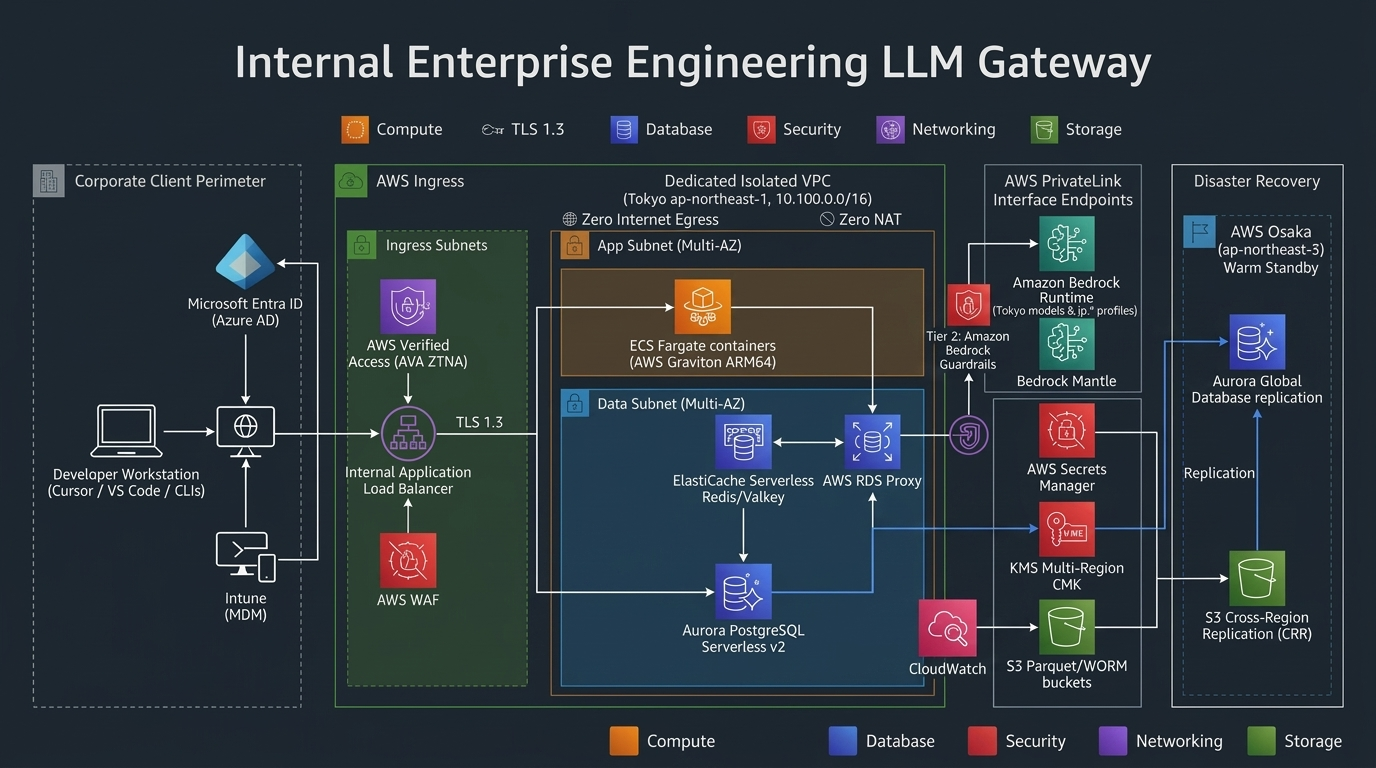
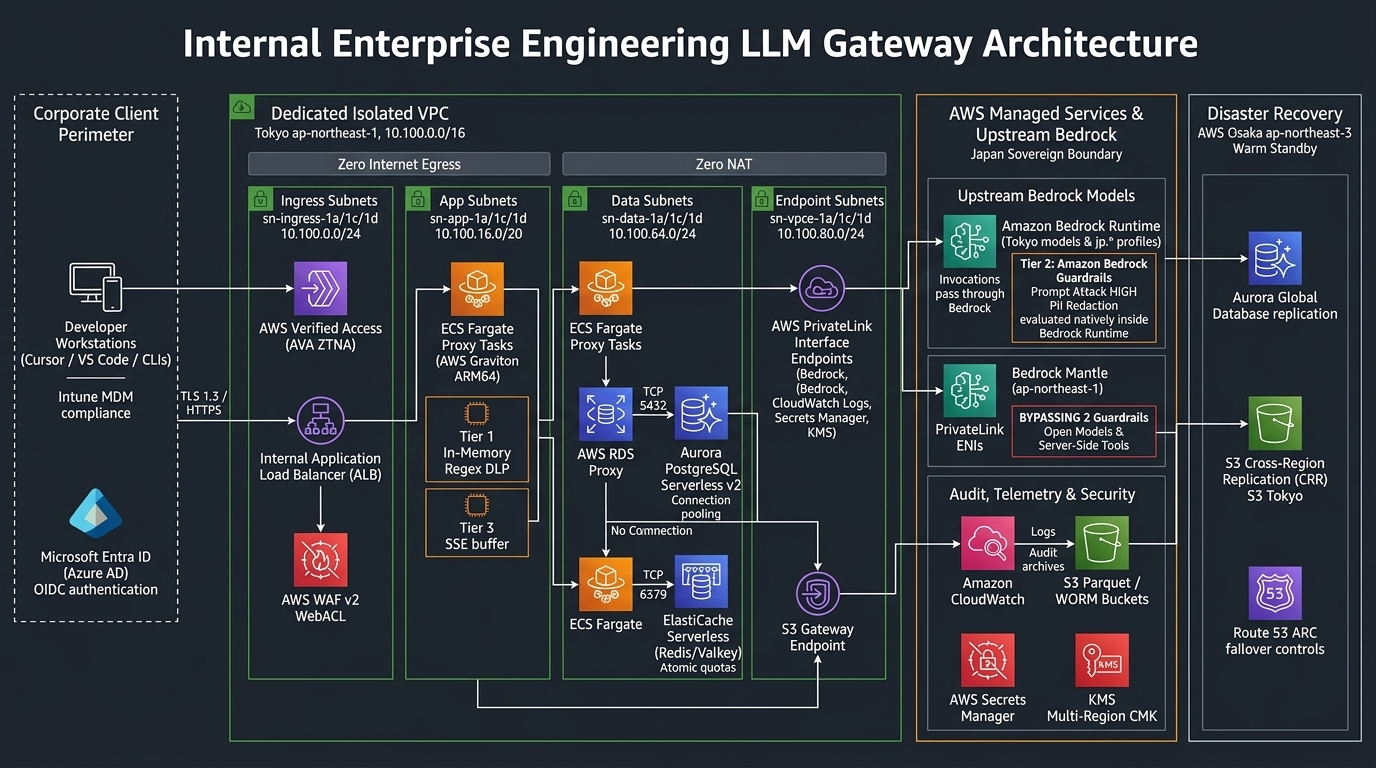
docs(arch): clarify Bedrock Mantle guardrail exclusion and fix infra diagram network paths
- Clarify that Bedrock Mantle does not natively support Bedrock Guardrails; calls bypass Tier 2 Guardrails and rely on Tier 1 Edge DLP and Tier 3 SSE buffer
- Update REQUIREMENTS.md, REQUIREMENTS_JA.md, INFRASTRUCTURE_SPEC.md, and MODEL_AVAILABILITY_MATRIX.md with explicit Mantle guardrails exclusion rules
- Regenerate assets/infra_overview_diagram.jpg and update assets/infra_overview_diagram.md:
  * Route Bedrock Mantle directly bypassing Bedrock Guardrails
  * Place Bedrock Guardrails evaluation natively inside Bedrock Runtime
  * Properly encapsulate all subnets (including ingress and sn-vpce) inside VPC
  * Connect CloudWatch Logs and Metrics via PrivateLink Interface Endpoints
  * Connect S3 Parquet/WORM buckets via S3 Gateway Endpoint
  * Route ECS Fargate database traffic strictly via RDS Proxy to Aurora Serverless v2

diff --git a/assets/infra_overview_diagram.md b/assets/infra_overview_diagram.md
@@ -47,12 +47,14 @@ The platform is deployed in a dedicated, greenfield isolated VPC (`10.100.0.0/16
 * **Aurora PostgreSQL Serverless v2:** Multi-AZ authoritative datastore scaling elastically (2.0 to 32.0 ACUs) for users, virtual key hashes, and FinOps ledger transactions.
 
 ### Upstream Model & Management Tier (`Endpoint Subnets` / PrivateLink)
-* **AWS PrivateLink Interface Endpoints:** Dedicated private ENIs for zero-egress communication with AWS services.
+* **AWS PrivateLink Interface Endpoints (`sn-vpce-1a/1c/1d`):** Dedicated private ENIs deployed across the endpoint subnets for zero-egress communication with AWS services.
 * **Amazon Bedrock Runtime & Mantle:** Upstream Foundation Models deployed across Japan Sovereign Boundaries (`jp.*` cross-region profiles & Tokyo in-region models).
-* **Tier 2: Amazon Bedrock Guardrails:** Natively integrated into **Amazon Bedrock Runtime** calls via `guardrailIdentifier` and `guardrailVersion`. Evaluates Prompt Attack defense at **HIGH** filter strength, denied topic policies, and Japan PII redaction (My Number / credit cards). There is **no separate VPC endpoint** for Guardrails; all invocations route through the `com.amazonaws.ap-northeast-1.bedrock-runtime` PrivateLink endpoint.
+* **Tier 2: Amazon Bedrock Guardrails:** Natively integrated into **Amazon Bedrock Runtime** calls via `guardrailIdentifier` and `guardrailVersion`. Evaluates Prompt Attack defense at **HIGH** filter strength, denied topic policies, and Japan PII redaction (My Number / credit cards). There is **no separate VPC endpoint** for Guardrails; all invocations route through the `com.amazonaws.ap-northeast-1.bedrock-runtime` PrivateLink endpoint and Guardrails is evaluated inside the Bedrock service plane.
+* **Bedrock Mantle Guardrail Exclusion:** Bedrock Mantle (`bedrock-mantle.ap-northeast-1.api.aws`) does **not** natively support Bedrock Guardrails. Mantle traffic connects directly via the Bedrock interface endpoint and completely bypasses Tier 2 Guardrails, relying exclusively on Tier 1 Edge DLP and Tier 3 SSE filtering.
 * **FinOps Optimization:** Interactive developer chat and coding prompts enforce Tier 2 Guardrails. High-throughput codebase embeddings (`amazon.titan-embed-text-v2`) bypass Tier 2 Guardrails to eliminate cost amplification ($0.75/1k text units).
 * **Secrets & Encryption:** AWS Secrets Manager for model credentials; KMS Multi-Region Customer Managed Keys (`mrk-llm-gw`) for envelope encryption.
-* **Audit & Storage:** CloudWatch Logs (zero payload, SHA-256 prompt hashes only) and S3 Parquet/WORM buckets with Object Lock.
+* **Audit & Storage:** CloudWatch Logs (zero payload, SHA-256 prompt hashes only) via `com.amazonaws.ap-northeast-1.logs` Interface Endpoints in `sn-vpce`, and S3 Parquet/WORM buckets with Object Lock via `com.amazonaws.ap-northeast-1.s3` Gateway Endpoint attached to `rt-app`.
+* **Database Connection Integrity:** ECS Fargate tasks connect exclusively to **AWS RDS Proxy** (`sn-data`) for PostgreSQL connection multiplexing, never directly to Aurora. ElastiCache Serverless is accessed independently via TCP 6379.
 
 ### Disaster Recovery Tier (AWS Osaka `ap-northeast-3`)
 * **Warm Standby:** Asynchronous cross-region storage replication via **Aurora Global Database** (RPO < 1 min) and S3 Cross-Region Replication (CRR).

diff --git a/REQUIREMENTS_JA.md b/REQUIREMENTS_JA.md
@@ -330,6 +330,7 @@ s3://s3-llm-gateway-finops-ap-northeast-1/transactions/year=YYYY/month=MM/day=DD
 
 * **`[FR-DLP-05]` Amazon Bedrock Guardrails 統合:**
   * Amazon Bedrock Runtime を対象とする開発者の対話型プロンプトはすべて、アップストリーム呼び出し時にアクティブな Guardrail 識別子とバージョン（`guardrailIdentifier` および `guardrailVersion`）を渡さなければならない（MUST）。
+  * **Bedrock Mantle の除外:** Bedrock Mantle（`bedrock-mantle.<region>.api.aws`）は Amazon Bedrock Guardrails をネイティブサポートしていません。`bedrock-mantle` へルーティングされるリクエストは第2層 Guardrails をバイパスし、第1層エッジDLPおよび第3層SSEフィルタリングに依存します。
   * **プロンプト攻撃防御:** Guardrail はプロンプト攻撃に対して **HIGH** 強度のフィルタリングを強制し、社内システム指示の上書きや敵対的ジェイルブレイクを阻止しなければならない（MUST）。
   * **禁止トピック:** マルウェア、リモートエクスプロイト、認証情報収奪ツールの生成要求を拒絶するトピックポリシーを強制しなければならない（MUST）。
   * **介入レスポンス:** Bedrock Guardrail が呼び出しをブロックした場合、ゲートウェイは内部セキュリティルールの詳細を露見させることなく、RFC 7807 形式のエラー（`HTTP 400 Bad Request`）を返却しなければならない（MUST）：

diff --git a/INFRASTRUCTURE_SPEC.md b/INFRASTRUCTURE_SPEC.md
@@ -742,7 +742,8 @@ To resolve the trade-offs between speed, cost, and safety (where pure regex lack
    * **SSRF Parameter Stripping:** Removes client-supplied routing parameters (`api_base`, `base_url`, `api_key`, `custom_llm_provider`, `mock_response`).
 
 2. **Tier 2 (Amazon Bedrock Guardrails):**
-   * **Managed Model Protection:** Attached to upstream Bedrock Runtime invocations via PrivateLink (`guardrailIdentifier` and `guardrailVersion`).
+   * **Managed Model Protection:** Attached to upstream Bedrock Runtime invocations via PrivateLink (`guardrailIdentifier` and `guardrailVersion`). Evaluated natively within the Bedrock service plane (no separate VPC endpoint).
+   * **Bedrock Mantle Exclusion:** Amazon Bedrock Mantle does **not** natively support Bedrock Guardrails. Invocations directed to `bedrock-mantle.ap-northeast-1.api.aws` bypass Tier 2 Guardrails and rely exclusively on Tier 1 container-edge filtering and Tier 3 SSE post-flight inspection.
    * **Prompt Attack / Jailbreak Defense:** Evaluates prompt intent at **HIGH** filter strength, neutralizing indirect prompt injection and corporate instruction override attacks.
    * **Denied Topics:** Hard-blocks generation of malware payloads, reverse-engineering exploits, or credential harvesting routines.
    * **PII Masking:** Redacts Japanese My Number and Credit Card information.

diff --git a/REQUIREMENTS.md b/REQUIREMENTS.md
@@ -365,6 +365,7 @@ Incoming Developer Payload (Prompts / Code / Diffs / Tool Outputs)
 
 * **`[FR-DLP-05]` Amazon Bedrock Guardrails Integration:**
   * All interactive developer prompts targeting Amazon Bedrock Runtime MUST pass the active Guardrail identifier and version (`guardrailIdentifier` and `guardrailVersion`) in the upstream invocation request.
+  * **Bedrock Mantle Exclusion:** Bedrock Mantle (`bedrock-mantle.<region>.api.aws`) does **not** natively support Bedrock Guardrails. Requests routed to `bedrock-mantle` bypass Tier 2 Guardrails and rely on Tier 1 Edge DLP and Tier 3 Post-Flight SSE filtering.
   * **Prompt Attack Defense:** The Guardrail MUST enforce **HIGH** strength filtering on prompt attacks, preventing adversarial jailbreaks from overriding corporate system instructions.
   * **Denied Topics:** The Guardrail MUST enforce strict topic policies blocking generation of malware payloads, remote exploitation scripts, or credential harvesting tools.
   * **Intervention Response:** If a Bedrock Guardrail blocks an interaction, the gateway MUST return an `HTTP 400 Bad Request` with an RFC 7807 payload detailing the guardrail action without exposing internal security rule internals:

diff --git a/MODEL_AVAILABILITY_MATRIX.md b/MODEL_AVAILABILITY_MATRIX.md
@@ -194,3 +194,7 @@ Below is the verified survey of Foundation Models across both Bedrock execution 
 
 9. **OpenAI & xAI Dual-Plane Availability:**
    * OpenAI (`GPT-6 Astra`, `GPT-5.6 Sol / Terra / Luna`) and xAI (`Grok 4.6`) are available on both `bedrock-mantle` (US-West-2) and `bedrock-runtime` (via `/openai/v1`). Both providers egress Japan and require Tier 3 waivers.
+
+10. **Amazon Bedrock Guardrails Support Matrix:**
+    * **Bedrock Guardrails is supported exclusively on `bedrock-runtime`.** Prompts targeting `bedrock-runtime` models apply Tier 2 Guardrails (`guardrailIdentifier` and `guardrailVersion`).
+    * **`bedrock-mantle` does NOT support native Bedrock Guardrails.** Calls routed to `bedrock-mantle` bypass Tier 2 Guardrails and are protected solely by Tier 1 In-Memory Edge DLP and Tier 3 Post-Flight SSE stream transformers.
